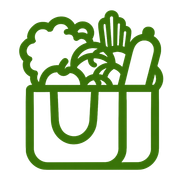
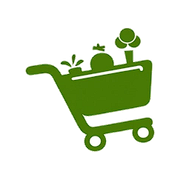
added readme.md

diff --git a/mobile/src/features/app-start/AppLoadingScreen.tsx b/mobile/src/features/app-start/AppLoadingScreen.tsx
@@ -35,7 +35,7 @@ export const AppLoadingScreen: React.FC<AppLoadingScreenProps> = ({ onRetry }) =
 
 const styles = StyleSheet.create({
   screen: { flex: 1, backgroundColor: colors.background, alignItems: "center", justifyContent: "center" },
-  logo: { width: 200, height: 200 },
+  logo: { width: 240, height: 240 },
   spinner: { marginTop: spacing.base, transform: [{ scale: 1.2 }] },
   extra: { position: "absolute", left: 0, right: 0, top: "50%", marginTop: 150, alignItems: "center" },
   caption: { fontFamily: fonts.body.regular, fontSize: 14, color: colors.textMuted },

diff --git a/web/app/layout.tsx b/web/app/layout.tsx
@@ -84,13 +84,6 @@ const parkinsans = localFont({
 export const metadata: Metadata = {
   title: "Agrivive",
   description: "Find and reserve fresh surplus produce.",
-  icons: {
-    icon: [
-      { url: "/brand/agrivive-logo-bag.png", type: "image/png" },
-    ],
-    shortcut: "/brand/agrivive-logo-bag.png",
-    apple: "/brand/agrivive-logo-bag.png",
-  },
 };
 
 // Runs before first paint: hides the splash when it will be skipped, and holds its stage back until the

diff --git a/README.md b/README.md
@@ -1,0 +1,277 @@
+<div align="center">
+
+<img src="web/public/brand/agrivive-logo-full-new-transparent.png" alt="Agrivive" width="420" />
+
+<br />
+
+### Every harvest deserves a second scene.
+
+**A marketplace that rescues fresh surplus vegetables from Davao City farms and local markets, and puts them in a neighbor's basket before the sun goes down.**
+
+<br />
+
+![Bun](https://img.shields.io/badge/Bun-1.4-000000?style=for-the-badge&logo=bun&logoColor=white)
+![Elysia](https://img.shields.io/badge/Elysia-API-8B5CF6?style=for-the-badge)
+![PostgreSQL](https://img.shields.io/badge/PostgreSQL-Aurora-336791?style=for-the-badge&logo=postgresql&logoColor=white)
+![Next.js](https://img.shields.io/badge/Next.js-15-000000?style=for-the-badge&logo=nextdotjs&logoColor=white)
+![Expo](https://img.shields.io/badge/Expo-SDK_58-000020?style=for-the-badge&logo=expo&logoColor=white)
+![n8n](https://img.shields.io/badge/n8n-Boost_Engine-EA4B71?style=for-the-badge&logo=n8n&logoColor=white)
+
+[**Shop the Harvest**](https://agrivive.tech) &nbsp;·&nbsp; [**Install the Seller App**](https://agrivive.tech/download-app) &nbsp;·&nbsp; [**API Reference**](backend/API_ENDPOINTS.md) &nbsp;·&nbsp; [**Backend Guide**](backend/README.md)
+
+</div>
+
+---
+
+## 🎬 The Premise
+
+At 6 a.m. a vegetable seller arrives with more than they can sell. By noon the lettuce is tired. By evening it is waste.
+
+At the same hour, a few kilometers away, a family is looking for fresh produce at a fair price.
+
+**Agrivive is the scene that connects them.**
+
+Sellers list what they have left. Buyers reserve it from a map. A QR pickup pass turns the reservation into a handshake at the stall. In between, the system quietly does the hard work: it ranks listings fairly, nudges prices down on a schedule, writes the promotion, posts it to Facebook and Instagram, and keeps both sides honest with a trust score.
+
+> *Nothing is delivered. Nothing is held hostage in a warehouse. Fresh food moves from one pair of hands to another, and the whole story fits in a phone.*
+
+---
+
+## 🎞 Now Showing
+
+| | Scene | What happens |
+|---|---|---|
+| 🗺 | **Find** | Buyers browse a live market map and category shelves of surplus produce near them. |
+| 🧺 | **Reserve** | A cart that splits itself across sellers. Stock is held for a limited time, so nobody loses out. |
+| 🎟 | **Pick up** | A Digital Pickup Pass (QR). The seller scans it, the order completes, both sides rate each other. |
+| 🚀 | **Boost** | One tap and Agrivive writes the promotion with AI, posts it to Facebook and Instagram, then lowers the price every 6 hours until the seller's final price. |
+| 🧭 | **Rank** | AHP-TOPSIS decides who gets seen first. Priority Boost, Standard Exposure, Basic. No pay-to-win. |
+| 🛡 | **Trust** | Weighted points for silence, cancellations and low ratings. Warnings, pauses, blocks, and a path back. |
+
+---
+
+## 🎭 The Cast
+
+Four roles, one account system. A person can hold both a Buyer and a Seller role on one email.
+
+| Role | Where they live | What they do |
+|---|---|---|
+| **Buyer** | Web ([`web/`](web)) | Browse the map, favorite sellers, reserve produce, chat, show the pickup pass, leave reviews. |
+| **Seller** | Mobile app ([`mobile/`](mobile)) | Add listings, set price drops, scan pickup passes, Boost a product, answer questions, read analytics, check weather and holidays. |
+| **Stakeholder** | Web | A read-only summary of marketplace activity, with a print layout. |
+| **Admin** | Web | Performance monitoring and trust oversight. |
+
+---
+
+## 🏗 Behind the Scenes
+
+```mermaid
+flowchart LR
+    subgraph Clients
+        W["🌐 Web<br/>Next.js 15<br/>buyers"]
+        M["📱 Mobile<br/>Expo / React Native<br/>sellers"]
+    end
+
+    subgraph VPS["VPS · Docker Compose"]
+        C["Caddy<br/>HTTPS + proxy"]
+        A["⚙ API<br/>Bun + Elysia<br/>+ WebSocket chat"]
+        K["⏱ Worker<br/>every 60 s"]
+    end
+
+    DB[("🐘 PostgreSQL<br/>Aurora")]
+    S3[("🪣 S3<br/>photos + APK")]
+    N["🔁 n8n + Groq<br/>promotion copy"]
+    FB["📣 Facebook<br/>Instagram"]
+    P["🔔 FCM push"]
+    E["✉ Resend<br/>email codes"]
+    G["🤖 reCAPTCHA v3"]
+
+    W --> C
+    M --> C
+    C --> A
+    A --> DB
+    K --> DB
+    A --> S3
+    A --> E
+    A --> G
+    K -->|"IDs only"| N
+    N -->|"Bearer token<br/>fetches context"| A
+    A --> FB
+    K --> P
+```
+
+**Two processes, one codebase.** [`src/index.ts`](backend/src/index.ts) serves HTTP. [`src/worker.ts`](backend/src/worker.ts) runs the scheduled jobs: reservation expiry, trust and reply timers, new-listing notices, Boost follow-ups and price cuts, push delivery. Run exactly one worker.
+
+**n8n gets IDs, never secrets.** The worker tells n8n only *which* boost to run. n8n then calls back into protected `/integrations/*` routes with a service token to fetch the current facts. Credentials for Meta, FCM, S3 and email stay server-side.
+
+---
+
+## 🧰 Production Stack
+
+| Layer | Tech |
+|---|---|
+| **API** | Bun, Elysia, TypeScript (strict), Better Auth (email OTP, Google, 2FA), OpenAPI |
+| **Database** | PostgreSQL (AWS Aurora), Drizzle ORM, hand-reviewed migrations |
+| **Web** | Next.js 15 App Router, React 19, Tailwind 3, GSAP + Lenis, Leaflet, Base UI, shadcn |
+| **Mobile** | Expo SDK 58, React Native 0.88, expo-router, Better Auth Expo client, EAS Build |
+| **Automation** | n8n workflow ([`n8n/workflows/`](n8n/workflows)) with Groq for promotion copy |
+| **Storage & mail** | AWS S3, Resend (Mailtrap in development) |
+| **Ops** | Docker Compose, Caddy, GitHub Actions (CI per app, manual CD) |
+
+---
+
+## 🧠 The Smart Parts
+
+### Fair visibility, by the numbers
+Listings are ranked with **AHP-TOPSIS**: weighted criteria (recency, rating reliability and more) produce a closeness score between 0 and 1.
+
+| Closeness | Tier | Effect |
+|---|---|---|
+| `≥ 0.60` | **Priority Boost** | Eligible for the Boost promotion flow |
+| `0.40 – 0.60` | **Standard Exposure** | Normal placement |
+| `< 0.40` | **Basic** | Lowest placement |
+
+See [`backend/src/utils/ahp-topsis`](backend/src/utils/ahp-topsis), [`visibility-score`](backend/src/utils/visibility-score) and [`promotion-eligibility`](backend/src/utils/promotion-eligibility).
+
+### Boost, the 6-hour countdown
+1. A seller adds a product and taps **Boost**.
+2. n8n and Groq write a title and description. The backend posts to Facebook and Instagram.
+3. Six hours later the worker wakes the same flow, lowers the price by the seller's peso amount (never below their final price), and posts again.
+4. It repeats until the final price, a sellout, or the seller turns it off. A crash can never cause a double post.
+
+### Trust, with a way back
+Violations carry weights: a seller who never answers (1), a seller cancellation (2), a buyer no-show (2), a 1 to 2 star rating (1), confirmed misleading information or rude messages (2), QR misuse (3).
+
+```
+ 4 pts  →  warning
+ 6 pts  →  12-hour pause
+ 8 pts  →  24-hour pause
+10 pts  →  3-day pause
+12 pts  →  account blocked      (or one QR misuse)
+```
+
+Old mistakes fade after 90 days. Reply timers remind at 12 hours, warn at 24, and mark non-responsive at 48. Blocked accounts restore through an email code. Details live in [`backend/README.md`](backend/README.md).
+
+### Bot protection and consent
+Google **reCAPTCHA v3** guards sign-up, sign-in, code sending and account recovery. Every new account records when and which version of the Privacy Policy and Terms it accepted. Legal pages: [`/privacy`](https://agrivive.tech/privacy), [`/terms`](https://agrivive.tech/terms), [`/cookies`](https://agrivive.tech/cookies).
+
+---
+
+## 🗂 The Set
+
+```text
+Agrivive/
+├── backend/            Bun + Elysia API and worker
+│   ├── src/
+│   │   ├── index.ts        HTTP API
+│   │   ├── worker.ts       scheduled jobs (60 s)
+│   │   ├── db/             Drizzle schema + relations
+│   │   ├── plugins/        security headers, rate limit, validation
+│   │   ├── modules/        admin · auth · buyer · conversations · integrations
+│   │   │                   marketplace · notifications · seller · stakeholder · trust
+│   │   └── utils/          ahp-topsis · trust · visibility-* · s3 · email · recaptcha …
+│   └── drizzle/        timestamped migrations
+├── web/                Next.js buyer site
+├── mobile/             Expo seller app
+├── n8n/workflows/      exported Boost workflow (no credentials)
+├── Agrivive/           Obsidian vault: the development record
+├── .github/workflows/  CI per app, manual CD
+├── docker-compose.yml  API · worker · web · Caddy
+└── Caddyfile           HTTPS and routing
+```
+
+Each backend module follows one shape: `index/` routes, `model/` request schemas, `services/` database and business logic (one exported function per file). Shared logic used by several modules lives in `src/utils/<name>/index.ts`.
+
+---
+
+## ▶ Roll Camera (Local Setup)
+
+You need [Bun](https://bun.sh), PostgreSQL, and Node for Expo tooling.
+
+**1. Backend**
+```bash
+cd backend
+cp .env.example .env                 # set DATABASE_URL and the providers you need
+bun install --frozen-lockfile
+bunx drizzle-kit migrate             # explicit step; the app never migrates on startup
+bun run dev                          # API on http://localhost:3000 (OpenAPI UI included)
+bun run worker:dev                   # second terminal: the scheduled worker
+```
+
+**2. Web**
+```bash
+cd web
+cp .env.example .env.local           # NEXT_PUBLIC_API_URL defaults to http://localhost:3000
+bun install --frozen-lockfile
+bun run dev                          # http://localhost:3001
+```
+
+**3. Mobile**
+```bash
+cd mobile
+cp .env.example .env
+bun install --frozen-lockfile
+bun run start                        # Expo dev server
+```
+
+Leave `RECAPTCHA_SECRET_KEY` empty locally and the captcha checks are skipped. For email, set `EMAIL_PROVIDER=mailtrap` in development.
+
+### Checks before every cut
+
+| App | Commands |
+|---|---|
+| Backend | `bunx tsc --noEmit` · `bun build src/index.ts --outdir dist --target bun` · `bun build src/worker.ts --outdir dist --target bun` · `bunx drizzle-kit check` |
+| Web | `bun run typecheck` · `bun run build` |
+| Mobile | `bun run typecheck` · `node ./node_modules/expo/bin/cli export --platform android` |
+
+There is no automated test runner. The owner verifies endpoints by hand in the OpenAPI UI or Postman. Note: `backend/dist/` is tracked in git because Docker runs `bun dist/index.js`, so rebuild and check `git status` before a release.
+
+---
+
+## 🚢 Premiere (Deploy)
+
+1. **Merge to `main`**, then run the manual CD workflow for what changed: [`backend-cd.yml`](.github/workflows/backend-cd.yml) or [`web-cd.yml`](.github/workflows/web-cd.yml). They ship a release to the VPS through [`scripts/vps-release.sh`](scripts/vps-release.sh).
+2. **Migrations are a release step.** Apply them on purpose, before the new API serves traffic.
+3. **Mobile** is built with EAS: `eas build --profile preview --platform android` makes the installable APK. Upload it to S3 and the website links to it. The page at `/download-app` walks sellers through installing it.
+
+Public build variables (safe to expose): `NEXT_PUBLIC_API_URL`, `NEXT_PUBLIC_RECAPTCHA_SITE_KEY`, `EXPO_PUBLIC_API_URL`, `EXPO_PUBLIC_WEB_URL`, `EXPO_PUBLIC_RECAPTCHA_SITE_KEY`. **Everything else is a secret and lives only in the server `.env`.** Never commit it.
+
+---
+
+## 📚 The Script Supervisor (Docs)
+
+| Doc | What is in it |
+|---|---|
+| [`backend/README.md`](backend/README.md) | Local setup, Boost flow, trust rules, notifications, consent and captcha |
+| [`backend/API_ENDPOINTS.md`](backend/API_ENDPOINTS.md) | Endpoint contracts |
+| [`AGENTS.md`](AGENTS.md) | Project conventions: module layout, 200-line file limit, plain-word copy, UI/UX principles |
+| [`Agrivive/04 Delivery/00-LATEST.md`](Agrivive/04%20Delivery/00-LATEST.md) | The current project snapshot |
+| [`Agrivive/04 Delivery/`](Agrivive/04%20Delivery) | One dated note for every finished task: the changelog |
+| [`web/AGENTS.md`](web/AGENTS.md) · [`mobile/AGENTS.md`](mobile/AGENTS.md) | App-specific guidance |
+
+---
+
+## 🎨 House Style
+
+- **Plain words.** Labels and messages are written so a five-year-old could read them: *Add More*, *Take Away*, *Change Amount*.
+- **Forest Green `#457D00` on Warm Cream `#F8F6F1`**, crisp 1px borders, soft shadows, 48px minimum buttons.
+- Interfaces cite the laws they follow (Jakob's Law, Hick-Hyman, Fitts's Law, the Peak-End Rule) so design decisions stay explainable.
+- Files stay under 200 lines. Errors show under the field they belong to.
+
+---
+
+## 🎬 Credits
+
+Built as a capstone project by **Bartiquien, Jara and Marundan**, with one stubborn idea: **fresh food should find a table, not a bin.**
+
+Maintained at [`jjoaquin-dev/Agrivive`](https://github.com/jjoaquin-dev/Agrivive).
+
+<div align="center">
+
+<br />
+
+*Fade to green.*
+
+**Agrivive** · Davao City
+
+</div>

diff --git a/Agrivive/04 Delivery/00-LATEST.md b/Agrivive/04 Delivery/00-LATEST.md
@@ -15,6 +15,9 @@ Replace this file after each completed task. Older detail belongs in the dated d
 
 ## Latest completed task
 
+Root `README.md` added. See [[2026-11-02 Root README]].
+New cart logo now used for the app icon, splash screen (transparent, cream start colour) and web favicon; the web layout no longer forces the old bag icon. Rebuild the APK to see it on phones.
+
 Seller app install guide at `/download-app`, linked from the Hero and both footers; all download links use one S3 address. See [[2026-11-02 Seller App Install Guide]].
 
 Privacy Policy, Terms of Use and Cookie Notice added on web; mobile links to them. Sign-up and seller registration now need an "I agree" box and store `terms_accepted_at` / `terms_version`. Google reCAPTCHA v3 protects sign-in, code sending, sign-up and account recovery (needs keys and the migration applied; legal contact placeholders still to fill). See [[2026-11-02 Legal Pages, Terms Consent and reCAPTCHA]].

diff --git a/Agrivive/04 Delivery/2026-11-02 Root README.md b/Agrivive/04 Delivery/2026-11-02 Root README.md
@@ -1,0 +1,19 @@
+---
+title: Root README
+type: delivery
+date: 2026-11-02
+---
+
+# Root README
+
+## What changed
+
+Added `README.md` at the repository root: product story, roles, architecture diagram (Mermaid), stack, the AHP-TOPSIS tiers, the 6-hour Boost loop, trust thresholds, folder map, local setup, release checks, deploy steps, docs index, and credits.
+
+## Why
+
+The repo had no root README, so a new reader had no starting point.
+
+## Verification
+
+Facts were taken from the repository (backend README, AGENTS.md, CLAUDE.md, eas.json, workflows, package.json). The Mermaid diagram and badges render on GitHub; they were not previewed locally.
